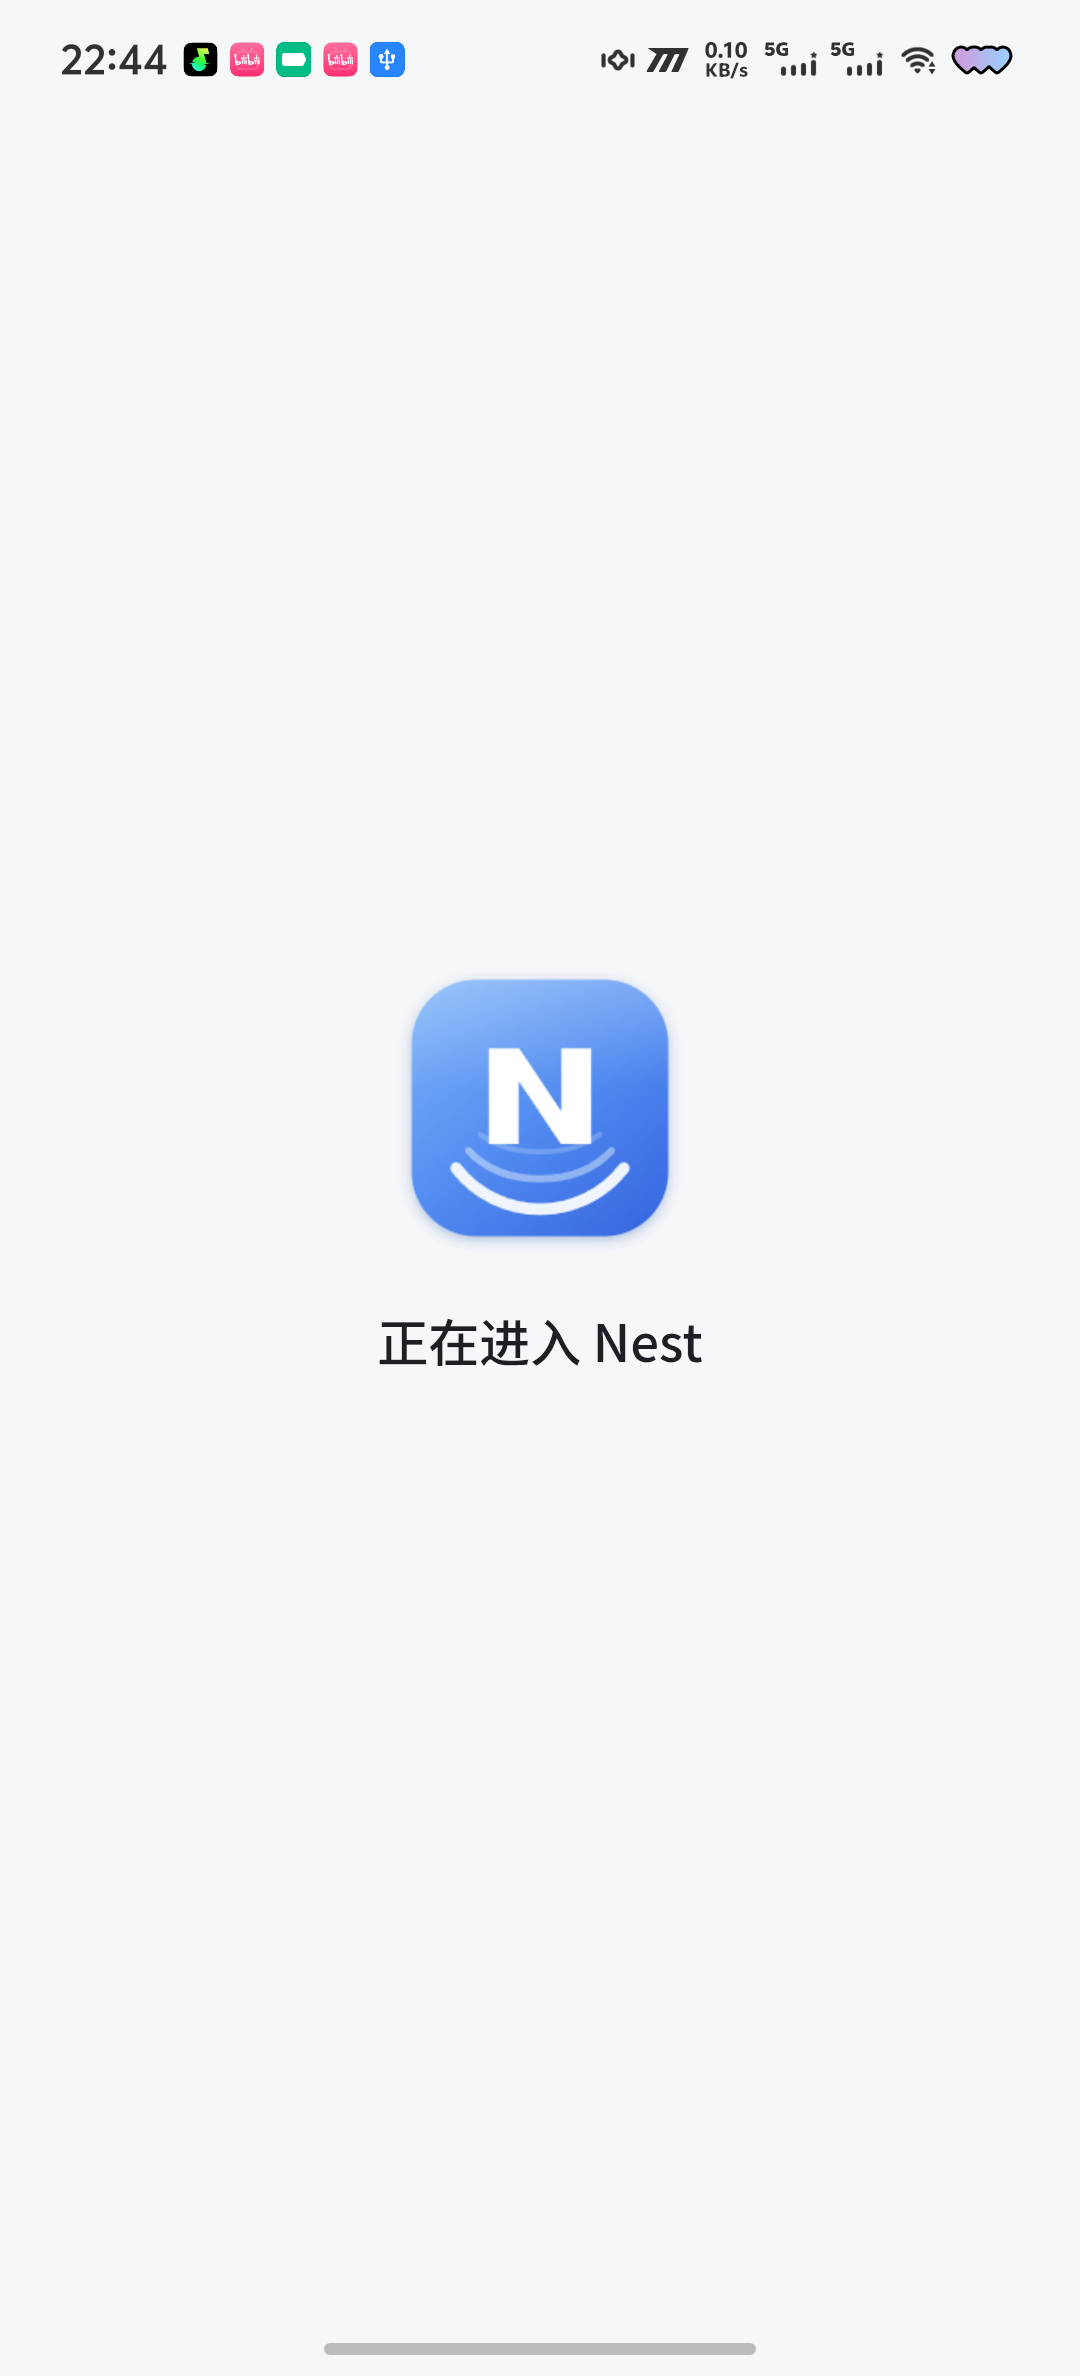
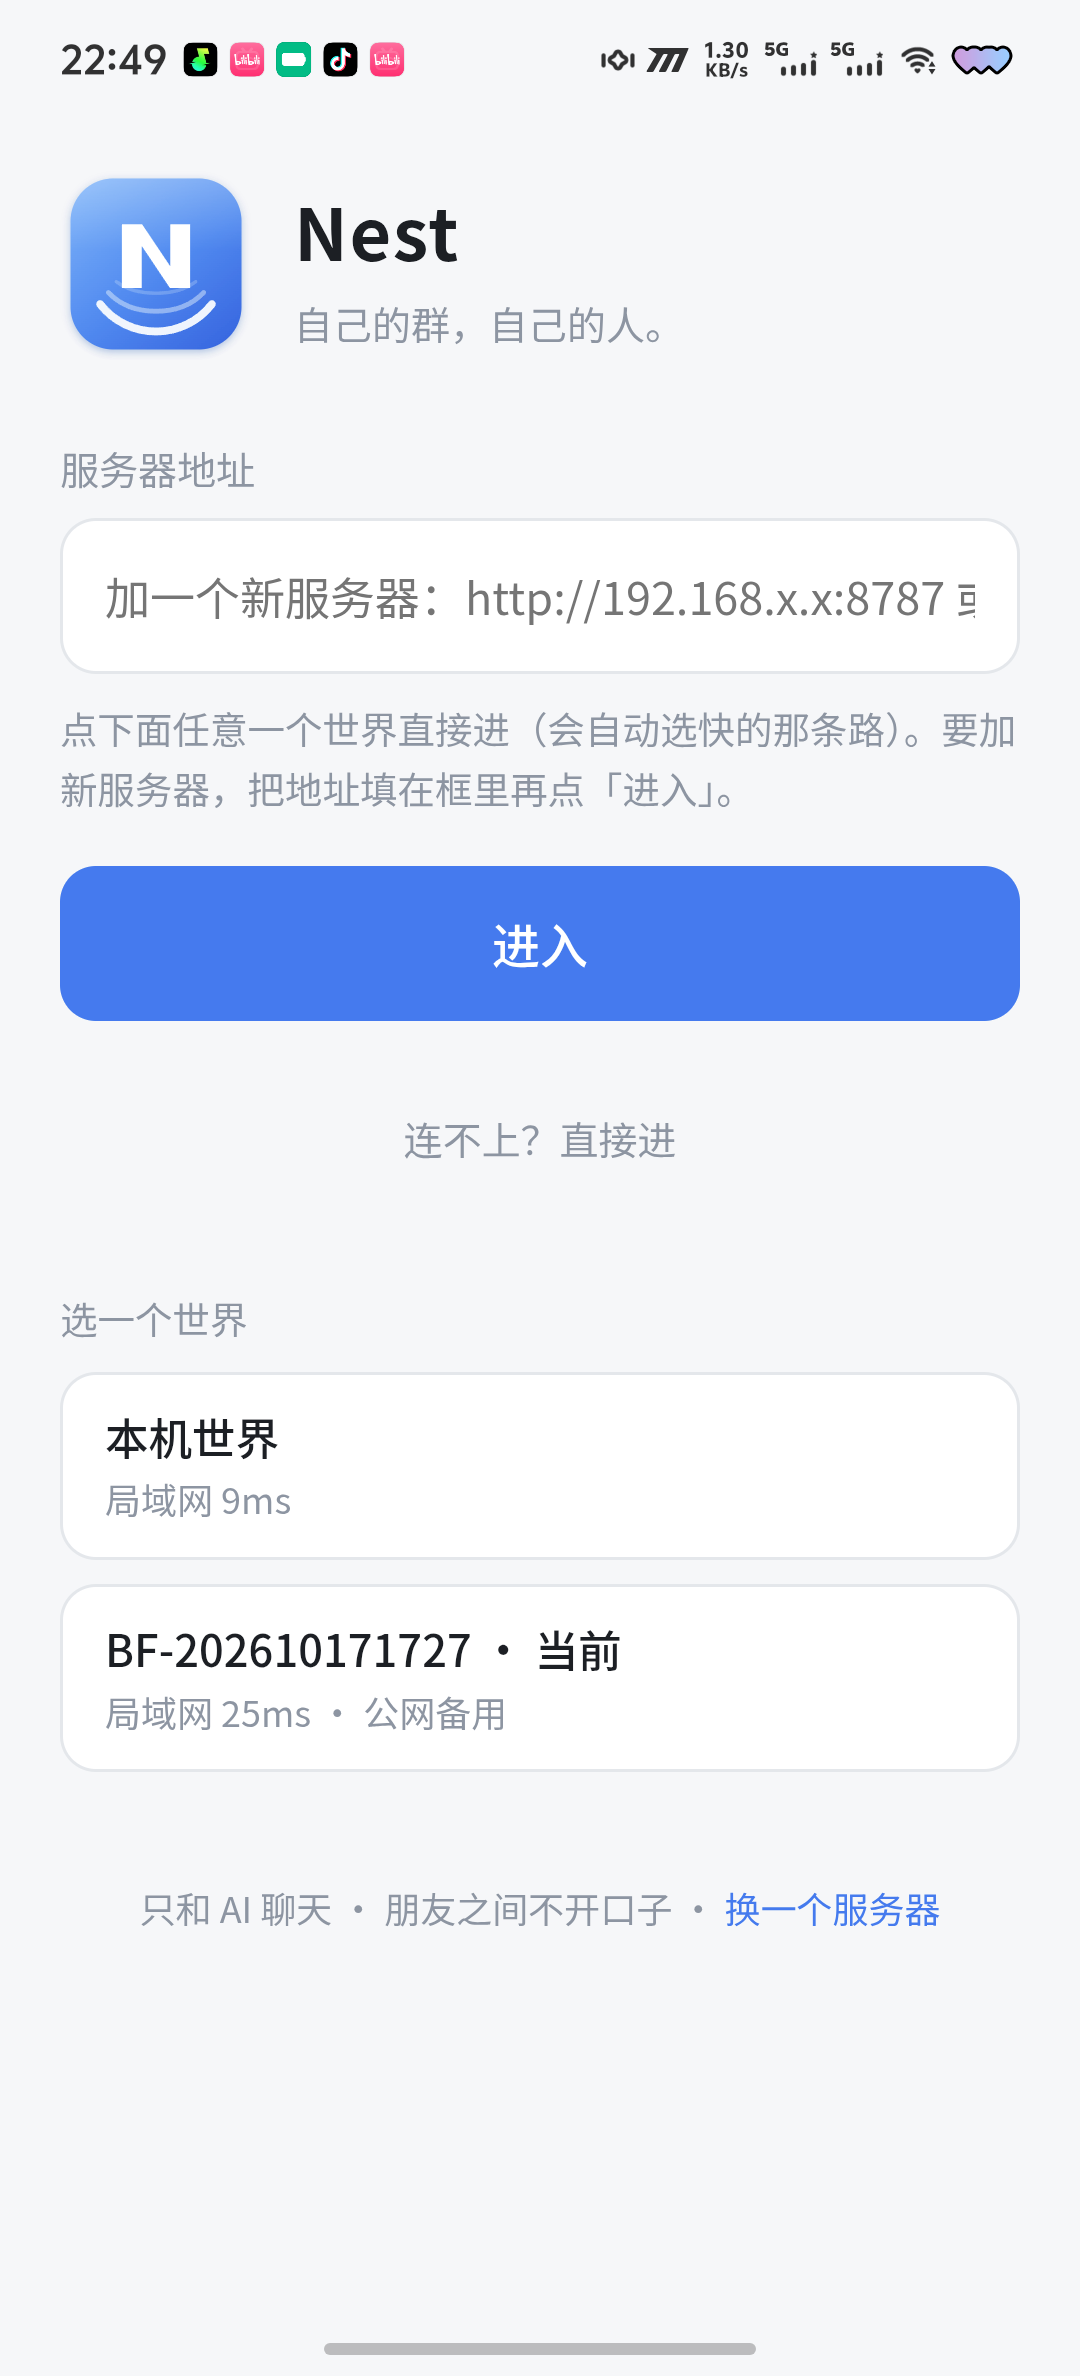
fix(mobile): 「正在进入」遮罩盖住地址页导致进不去 + 本机世界兜底 v0.4.10
真凶：壳 style.css 的 .entering{display:flex} 盖过了 hidden 的默认样式，
转场遮罩永远挂在地址页上面 —— 页面其实渲染好了，但用户看不见也点不到。
- style.css 末尾加 [hidden]{display:none!important}
- 所有服务器都探不通时不再硬跳到慢地址：回地址页并提示可以先用「本机世界」
  （用户确认需要这个返回本地的兜底）

实测：点服务器→壳 0.23s；世界列表 本机世界/ BF-…；本机世界 2.5s 进手机本机；
切回电脑世界 5.9s 进测试号。

diff --git a/mobile/www/app.js b/mobile/www/app.js
@@ -111,7 +111,7 @@ async function chooseRoute(entered) {
   const candidates = [...new Set([...entered, ...loadPool().map((e) => e.u)].map((u) => String(u || '')))].filter(Boolean).slice(0, 8);
   const results = await Promise.all(candidates.map((u) => probeOne(u)));
   const ok = results.filter((r) => r.ok);
-  if (!ok.length) return { url: entered[0] || candidates[0] || '', group: entered };
+  if (!ok.length) return { url: '', group: entered, reachable: false };
 
   // 把这次探到的身份记进池子，下次公网探不通也能归到同一台服务器
   savePool(ok.map((r) => ({ u: r.url, sid: r.sid, host: r.host = r.host || '' })));
@@ -119,7 +119,7 @@ async function chooseRoute(entered) {
   const sameSid = anchor.sid ? ok.filter((r) => r.sid === anchor.sid) : ok;
   const pool = sameSid.length ? sameSid : ok;
   const best = pool.slice().sort((a, b) => a.ms - b.ms)[0];
-  return { url: best.url, group: pool.map((r) => r.url) };
+  return { url: best.url, group: pool.map((r) => r.url), reachable: true };
 }
 
 async function enterTargets(rawTargets) {
@@ -133,7 +133,19 @@ async function enterTargets(rawTargets) {
   savePool([...entered.map((u) => ({ u })), ...loadPool()]);
   const urlEl = $('#entering-url');
   if (urlEl && entered.length > 1) urlEl.textContent = '正在挑最快的路…';
-  const { url, group } = await chooseRoute(entered);
+  const routed = await chooseRoute(entered);
+  const url = routed.url;
+  const group = routed.group;
+  if (!routed.reachable) {
+    // 公网/局域网都探不通：别硬跳到慢地址干等，回地址页并提示用本机世界
+    const localWorld = loadPool().map((e) => e.u).find((u) => isLocalUrl(u));
+    showAddressPage(
+      localWorld
+        ? '那台服务器现在连不上（可能关机了 / 不在同一网络）。可以先用下面「本机世界」：AI 跑在手机上，不需要电脑。'
+        : '现在一台服务器都连不上。检查地址、电脑是否开机、是否在同一网络。'
+    );
+    return;
+  }
   saveHistory(group.length ? group : entered);
   try { localStorage.setItem(KEY_CUR, url); } catch { /* ignore */ }
   if (urlEl) urlEl.textContent = url;

diff --git a/mobile/www/style.css b/mobile/www/style.css
@@ -74,3 +74,7 @@ button.ghost:active { background: #eef1f5; }
 .recent-item b { display: block; font-size: 14.5px; font-weight: 500; color: var(--text); margin-bottom: 3px; }
 .recent-item span { display: block; font-size: 12px; color: var(--text-3); }
 .recent-item.is-dead { opacity: .5; }
+
+/* hidden 属性必须真的隐藏：.entering 是 display:flex，会盖住 hidden 的默认样式，
+   导致「正在进入」遮罩一直盖在地址页上看不见也点不到。 */
+[hidden] { display: none !important; }

diff --git a/docs/WORKING.md b/docs/WORKING.md
@@ -140,3 +140,16 @@
     还连不上的灰着显示；要加新服务器再填地址
   * 探活 2.5s；进服务器的看门狗 12s → 20s（公网首屏可能 12~18 秒，别误判）
 - 实测（手机）：世界列表 = 「本机世界 局域网 5ms」「BF-202610171727 局域网 18ms · 公网备用」
+
+### 完成记录（2026-11-23 夜 · 「进不去」的真正原因）
+- 现象：点「服务器」后一直卡在「正在进入 Nest」，点哪都没反应。
+- 根本原因：壳页面 CSS `.entering { display:flex }` 盖过了 `hidden` 属性的默认样式，
+  所以「正在进入」这层遮罩永远盖在地址页上面（地址页其实渲染好了，只是被盖住、点不到）。
+  修法：壳 style.css 末尾加 `[hidden] { display: none !important; }`
+- 顺带加：一台服务器都探不通时不硬跳，回地址页并提示「可以先用本机世界」
+  （用户确认这个"返回本地"的兜底是想要的）
+- 实测（手机）：
+  * 点右下角「服务器」→ 壳 0.23 秒
+  * 世界列表：本机世界 · 当前 局域网5ms / BF-202610171727 局域网26ms · 公网备用
+  * 点本机世界 → 127.0.0.1，2.5 秒，账号 手机本机
+  * 点 BF → 电脑世界，5.9 秒，账号 测试号
